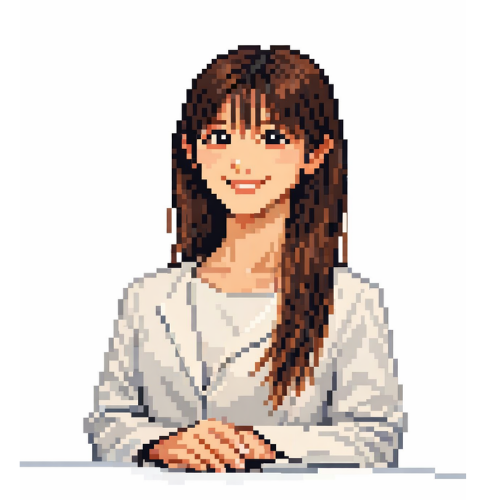
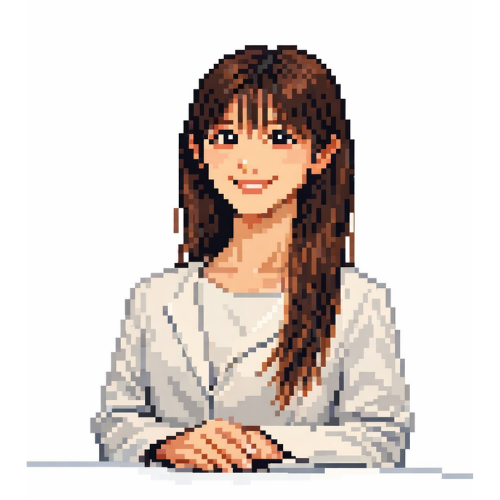
Update: 名前変更・バナーテキスト変更・アイコン余白トリミング

diff --git a/public/index.html b/public/index.html
@@ -16,8 +16,8 @@
     <img class="hero-banner__img" src="/banner.png" alt="AI越水はるか" />
     <div class="hero-banner__overlay">
       <div class="hero-banner__text">
-        <div class="hero-banner__label">リーガルサポートAI</div>
-        <div class="hero-banner__title">ハルカ</div>
+        <div class="hero-banner__label">リーガルサポート越水AI</div>
+        <div class="hero-banner__title">越水ハルカ</div>
       </div>
     </div>
   </div>
@@ -71,9 +71,9 @@
             <img src="/haruka-icon.png" alt="越水はるか" />
           </div>
           <div class="msg__content">
-            <div class="msg__role">越水はるか</div>
+            <div class="msg__role">越水ハルカ</div>
             <div class="msg__body">
-              こんにちは。リーガルサポートAI、ハルカです。<br/>
+              こんにちは。リーガルサポート越水AI、越水ハルカです。<br/>
               労働問題や日常の法律トラブルについて、一般的な情報をお伝えできます。<br/>
               お気軽にご質問ください。
             </div>
